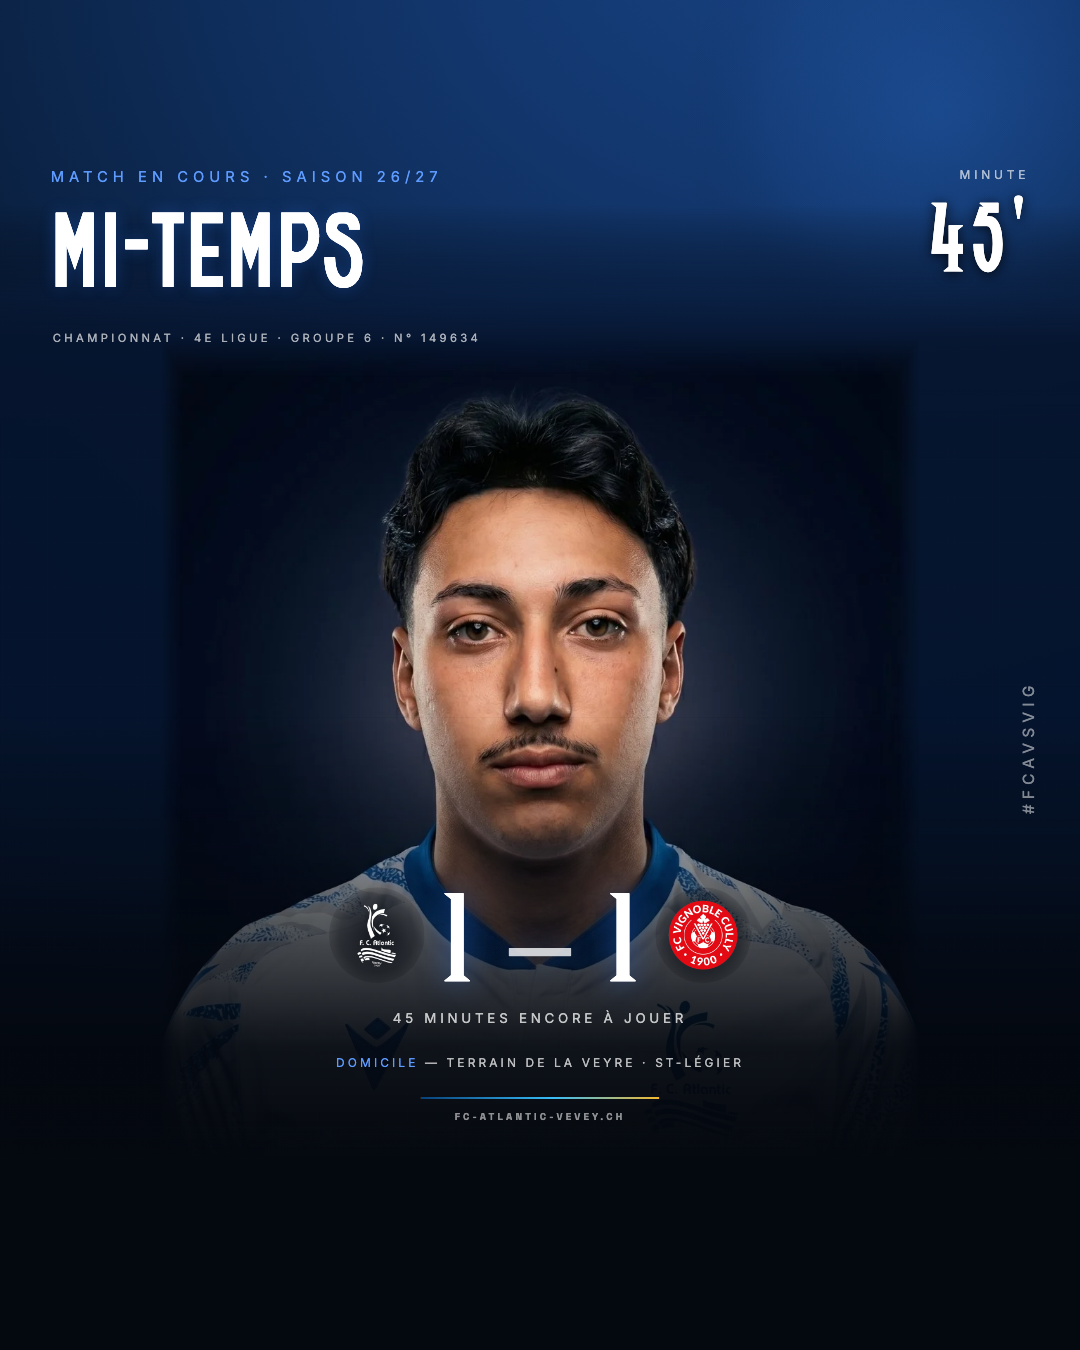
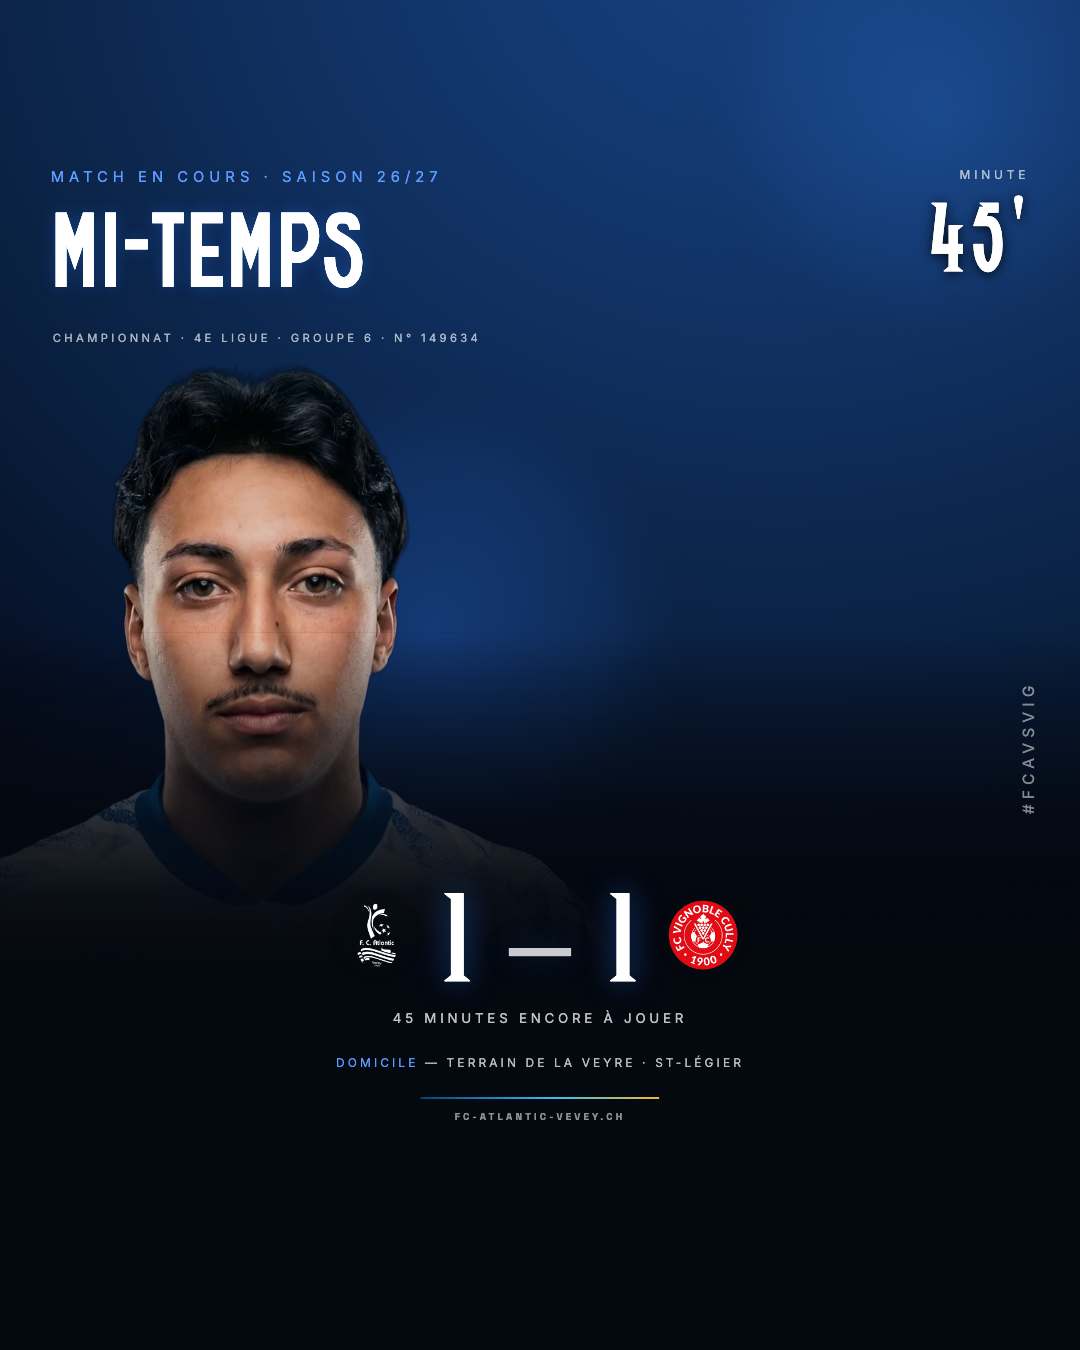
feat(design): joueur détouré, décalé par variante, choisi à la main
Boss 11.08 : « enlève le fond de la photo, ajoute de l'opacité et décale-le
à droite ou à gauche selon les variantes » + choix du joueur de fond.

- Les 28 portraits actifs sont détourés (rembg birefnet-portrait) et servis
  par le site sous /players/cutout/ ; le bundle expose photoCutoutUrl.
- FB.photo pose le buste détouré à 0.93 d'opacité, décalé selon la variante
  (matchday/live/recap à droite, kickoff/mi-temps à gauche, but centré) et
  débordant du cadre — le texte respire du côté opposé.
- Sélecteur « Joueur en fond » dans l'onglet Match : rotation automatique ou
  visage imposé, convoqués en tête. La variante But garde toujours le buteur.
- Le voile mord dès y900 (le buste monte plus haut et le maillot est gris
  clair) : l'info stack passe de 2-3:1 à 13-20:1 mesurés.
- Les découpes des rotations +0/+1/+2 et du buteur sont préchargées, sinon
  une variante retombait en silence sur la photo à fond studio.
- Fallback intact : sans découpe en cache, cadrage centré + nappe.

diff --git a/index.html b/index.html
@@ -163,6 +163,14 @@
   .match-row.on { background:rgba(56,189,248,0.09); box-shadow:inset 2px 0 0 #38BDF8; }
   .match-row.on .mr-opp, .match-row.on .mr-time { color:#38BDF8; }
   .match-row.on .mr-tag { color:#38BDF8; background:rgba(56,189,248,0.12); border-color:rgba(56,189,248,0.4); }
+  .hero-grid { display:grid; grid-template-columns:repeat(auto-fill, minmax(74px, 1fr)); gap:10px; margin-top:10px; }
+  .hero-mini { position:relative; background:rgba(255,255,255,0.04); border:1px solid rgba(255,255,255,0.10); border-radius:12px; padding:6px 4px 7px; text-align:center; cursor:pointer; }
+  .hero-mini.on { border-color:#2E7BFF; background:rgba(46,123,255,0.14); }
+  .hero-img { width:46px; height:46px; margin:0 auto; border-radius:50%; overflow:hidden; background:linear-gradient(135deg,#1a3058,#04080F); }
+  .hero-img img { width:100%; height:100%; object-fit:cover; object-position:center top; display:block; }
+  .hero-auto { width:46px; height:46px; margin:0 auto; border-radius:50%; display:flex; align-items:center; justify-content:center; background:rgba(46,123,255,0.16); border:1px dashed rgba(46,123,255,0.5); font-family:'Inter',sans-serif; font-weight:700; font-size:9px; letter-spacing:0.08em; color:#7FB2FF; }
+  .hero-jer { position:absolute; top:4px; right:6px; font-family:'Oswald',sans-serif; font-weight:700; font-size:10px; color:rgba(255,255,255,0.6); }
+  .hero-name { margin-top:5px; font-family:'Inter',sans-serif; font-weight:600; font-size:9px; letter-spacing:0.04em; text-transform:uppercase; color:rgba(255,255,255,0.75); white-space:nowrap; overflow:hidden; text-overflow:ellipsis; }
   .match-note { margin-top:8px; font-family:'Inter', sans-serif; font-size:10px; color:rgba(255,255,255,0.4); letter-spacing:0.04em; line-height:1.4; }
 
   /* PLAYER GRID */
@@ -664,6 +672,9 @@
     homeAway: 'away',
     // 'championnat' → eyebrow 4E LIGUE · GROUPE 6 + #4eLigue · 'coupe' → BCV CUP + #BCVCup · 'amical' → MATCH AMICAL
     competition: 'coupe',
+    // Joueur en fond choisi à la main ('' = rotation automatique par match).
+    // Ne s'applique JAMAIS au variant But : là, le héros est le buteur.
+    heroPlayerId: '',
     // Convocation coach du match SÉLECTIONNÉ (bundle API, clé = match UUID).
     // [{ jersey, firstName, lastName, position }] — quand présente, le picker
     // de composition ne propose QUE ces joueurs (+ invités). Matching par
@@ -714,6 +725,21 @@
   // restent lisibles que pour l'historique via BY_ID.
   const allPlayers = () => [...ROSTER.filter(p => p._active !== false), ...state.guests];
 
+  /* Candidats au rôle de visage : les convoqués d'abord (ils jouent), sinon
+     tout l'effectif actif avec photo. */
+  function heroCandidates() {
+    const withPhotos = ROSTER.filter(p => p.photoUrl && !p.isGuest && p._active !== false);
+    const conv = withPhotos.filter(isConvoked);
+    return (conv.length ? conv : withPhotos).sort((a, b) => (a.jerseyDisplay || 99) - (b.jerseyDisplay || 99));
+  }
+  window.setHeroPlayer = function(id) {
+    state.heroPlayerId = id || '';
+    const p = id ? BY_ID[id] : null;
+    if (p) ensureCutout(p);
+    toast(p ? `Visage : ${p.lastName.toUpperCase()}` : 'Visage : rotation automatique', 'blue');
+    renderPanel(); refresh();
+  };
+
   /* Joueur héros du matchday — pris au hasard mais STABLE par match (hash du
      matchId) : le poster ne change pas de visage à chaque re-render. Priorité
      aux convoqués (photo dispo), sinon tout le roster. Style Gil Vicente,
@@ -721,6 +747,11 @@
   function heroPlayerFor(matchKey) {
     const withPhotos = ROSTER.filter(p => p.photoUrl && !p.isGuest && p._active !== false);
     if (!withPhotos.length) return null;
+    /* Choix explicite du président : il prime sur la rotation. */
+    if (state.heroPlayerId) {
+      const picked = withPhotos.find(p => p.id === state.heroPlayerId);
+      if (picked) return picked;
+    }
     let pool = withPhotos;
     if (state.convokedPlayers && state.convokedPlayers.length) {
       const conv = withPhotos.filter(p => state.convokedPlayers.some(c =>
@@ -756,6 +787,25 @@
   /* Photos & crests cache (base64 data URLs) */
   const PHOTO_CACHE = {};
   const CREST_CACHE = {};
+  /* Portraits DÉTOURÉS (fond retiré, servis par le site) : c'est eux qu'on
+     pose sur le décor. On garde la photo d'origine en secours. */
+  const CUTOUT_CACHE = {};
+  const _cutoutFetching = new Set();
+  function heroImage(p) {
+    if (!p) return null;
+    if (p.cutoutUrl && CUTOUT_CACHE[p.cutoutUrl]) return { src: CUTOUT_CACHE[p.cutoutUrl], cut: true };
+    const photo = getCachedPhoto(p);
+    return photo ? { src: photo, cut: false } : null;
+  }
+  function ensureCutout(p) {
+    if (!p || !p.cutoutUrl || CUTOUT_CACHE[p.cutoutUrl] || _cutoutFetching.has(p.cutoutUrl)) return;
+    _cutoutFetching.add(p.cutoutUrl);
+    fetchAsDataUrl(p.cutoutUrl).then(d => {
+      _cutoutFetching.delete(p.cutoutUrl);
+      if (d) { CUTOUT_CACHE[p.cutoutUrl] = d; refresh(); }
+    });
+  }
+
   /* Logos blancs des parrains ballon (bundle) — mêmes règles : dataURL only. */
   const SPONSOR_CACHE = {};
   const _sponsorFetching = new Set();
@@ -1366,22 +1416,38 @@
       <div style="position:absolute; inset:0; background:radial-gradient(90% 60% at 30% 110%, rgba(8,65,123,0.25) 0%, rgba(8,65,123,0.08) 50%, transparent 75%);"></div>
       <div style="position:absolute; top:-220px; right:-180px; width:760px; height:760px; background:radial-gradient(circle, rgba(56,140,255,0.2) 0%, rgba(56,140,255,0.06) 45%, transparent 70%);"></div>`;
     },
-    photo(d) {
-      /* La photo occupe TOUTE la largeur du canvas (sinon sa propre boîte
-         sombre se voit en post). Comme le canvas post est plus large, l'image
-         grandit : on remonte son ancrage pour que le VISAGE tombe au même
-         endroit qu'en story — composition identique dans les deux formats. */
-      /* La photo garde EXACTEMENT la même taille et le même ancrage en story
-         et en post (composition identique). Comme le canvas post est plus
-         large que la photo, une nappe bleu nuit la prolonge sur toute la
-         largeur — c'est elle qui absorbe aussi le bord haut de l'image (ces
-         photos portent un fond cuit qui dessinerait sinon une ligne nette). */
-      return `<div style="position:absolute; left:0; right:0; top:290px; bottom:0; background:linear-gradient(180deg, transparent 0px, rgba(6,20,45,0.58) 130px, rgba(6,20,45,0.9) 195px, rgba(6,20,45,0.95) 320px, rgba(6,20,45,0.96) 100%);"></div>
-      <div style="position:absolute; top:430px; left:50%; margin-left:-420px; width:840px; height:840px; background:radial-gradient(circle, rgba(46,123,255,0.3) 0%, rgba(46,123,255,0.1) 42%, transparent 68%);"></div>
-      <div style="position:absolute; left:50%; margin-left:-540px; top:480px; width:1080px; height:1440px; background-image:url('${d}'); background-size:contain; background-position:center top; background-repeat:no-repeat;"></div>`;
+    /* Montage du joueur (Boss 11.08) : buste DÉTOURÉ, légèrement translucide,
+       décalé à gauche ou à droite selon la variante — le texte respire du
+       côté opposé. Si seule la photo d'origine est en cache (fond studio
+       cuit dans l'image), on retombe sur le cadrage centré + la nappe qui
+       masque sa boîte. */
+    photo(img, side = 'center') {
+      if (!img) return '';
+      const haloX = side === 'right' ? '60%' : side === 'left' ? '40%' : '50%';
+      const halo = `<div style="position:absolute; top:${side === 'center' ? 430 : 480}px; left:${haloX}; margin-left:-420px; width:840px; height:840px; background:radial-gradient(circle, rgba(46,123,255,0.28) 0%, rgba(46,123,255,0.1) 42%, transparent 68%);"></div>`;
+      if (!img.cut) {
+        return `<div style="position:absolute; left:0; right:0; top:290px; bottom:0; background:linear-gradient(180deg, transparent 0px, rgba(6,20,45,0.58) 130px, rgba(6,20,45,0.9) 195px, rgba(6,20,45,0.95) 320px, rgba(6,20,45,0.96) 100%);"></div>
+      ${halo}
+      <div style="position:absolute; left:50%; margin-left:-540px; top:480px; width:1080px; height:1440px; background-image:url('${img.src}'); background-size:contain; background-position:center top; background-repeat:no-repeat;"></div>`;
+      }
+      const w = 1010, h = 1330, top = 512;
+      const left = side === 'right' ? FB.vw - w + 132
+                 : side === 'left'  ? -132
+                 : Math.round((FB.vw - w) / 2);
+      return `${halo}
+      <div style="position:absolute; left:${left}px; top:${top}px; width:${w}px; height:${h}px; opacity:0.93; background-image:url('${img.src}'); background-size:contain; background-position:center top; background-repeat:no-repeat;"></div>`;
     },
-    scrim(topY = 1020) {
-      return `<div style="position:absolute; left:0; right:0; top:${topY}px; bottom:0; background:linear-gradient(180deg, transparent 0%, rgba(4,8,15,0.35) 20%, rgba(4,8,15,0.72) 36%, rgba(4,8,15,0.95) 52%, rgba(4,8,15,1) 70%);"></div>`;
+    /* Côté du buste par variante : deux stories publiées à la suite ne
+       présentent jamais la même image au même endroit. */
+    side(v) {
+      return { matchday: 'right', kickoff: 'left', 'live-score': 'right',
+               halftime: 'left', recap: 'right', goal: 'center' }[v] || 'center';
+    },
+    /* Le buste détouré monte plus haut dans le cadre et le maillot est GRIS
+       CLAIR : sans un voile qui mord tôt, l'info stack tombe à 2-3:1 (mesuré).
+       Opaque dès y1290, là où commence la première rangée. */
+    scrim(topY = 900) {
+      return `<div style="position:absolute; left:0; right:0; top:${topY}px; bottom:0; background:linear-gradient(180deg, transparent 0%, rgba(4,8,15,0.45) 14%, rgba(4,8,15,0.82) 26%, rgba(4,8,15,0.96) 36%, rgba(4,8,15,1) 46%);"></div>`;
     },
     kicker(txt, y = 238) {
       return `<div style="position:absolute; left:72px; top:${y}px; font-family:'Inter', sans-serif; font-weight:700; font-size:21px; letter-spacing:0.34em; text-transform:uppercase; color:#5E9BFF;">${txt}</div>`;
@@ -1536,11 +1602,11 @@
        Rendu photo UNIQUEMENT depuis le cache dataURL (zéro taint export).
        Sans photo cachée (offline) → layout carte historique ci-dessous. */
     const heroP = heroPlayerFor(state.matchId);
-    const heroPhoto = heroP && getCachedPhoto(heroP);
-    if (heroPhoto) {
+    const heroImg = heroImage(heroP);
+    if (heroImg) {
       const html = `
         ${FB.bg()}
-        ${FB.photo(heroPhoto)}
+        ${FB.photo(heroImg, FB.side('matchday'))}
         ${FB.scrim()}
         ${FB.kicker('Matchday · Saison 26/27')}
         ${FB.titre(state.kickoff.dayName, 168)}
@@ -1580,9 +1646,7 @@
           ${leftBlock}
           <div style="display:flex; flex-direction:column; align-items:center; gap:${pf(24,22)}px;">
             <div style="width:1px; height:${vsRule}px; background:linear-gradient(180deg, transparent, ${acc}99, transparent);"></div>
-            ${heroPhoto
-              ? `<div style="font-family:'Portugal2025', 'Oswald', sans-serif; font-weight:400; font-size:${pf(88,94)}px; line-height:1; letter-spacing:0.06em; color:rgba(255,255,255,0.92); text-shadow:0 2px 22px rgba(4,8,15,0.95), 0 0 56px rgba(4,8,15,0.8);">VS</div>`
-              : `<div style="font-family:'Portugal2025', 'Oswald', sans-serif; font-weight:400; font-size:${pf(116,124)}px; line-height:1; letter-spacing:0.06em; ${ghostVS}">VS</div>`}
+            <div style="font-family:'Portugal2025', 'Oswald', sans-serif; font-weight:400; font-size:${pf(116,124)}px; line-height:1; letter-spacing:0.06em; ${ghostVS}">VS</div>
             <div style="width:1px; height:${vsRule}px; background:linear-gradient(180deg, transparent, ${acc}99, transparent);"></div>
           </div>
           ${rightBlock}
@@ -1613,11 +1677,11 @@
     heroPlayerFor._offset = 1;
     const heroK = heroPlayerFor(state.matchId);
     heroPlayerFor._offset = 0;
-    const heroKPhoto = heroK && getCachedPhoto(heroK);
-    if (heroKPhoto) {
+    const heroKImg = heroImage(heroK);
+    if (heroKImg) {
       const html = `
         ${FB.bg()}
-        ${FB.photo(heroKPhoto)}
+        ${FB.photo(heroKImg, FB.side('kickoff'))}
         ${FB.scrim()}
         ${FB.kicker('Imminent · Saison 26/27')}
         ${FB.titre("COUP D'ENVOI", 126)}
@@ -1685,11 +1749,11 @@
     const stateMsg = state.score.home > state.score.away ? 'On mène' : (state.score.home < state.score.away ? 'On est mené' : 'Tout reste à jouer');
     /* Full-bleed système (DESIGN-SYSTEM-2627 §5) */
     const heroL = heroPlayerFor(state.matchId);
-    const heroLPhoto = heroL && getCachedPhoto(heroL);
-    if (heroLPhoto) {
+    const heroLImg = heroImage(heroL);
+    if (heroLImg) {
       const html = `
         ${FB.bg()}
-        ${FB.photo(heroLPhoto)}
+        ${FB.photo(heroLImg, FB.side('live-score'))}
         ${FB.scrim()}
         ${FB.kicker('<span style="display:inline-block; width:14px; height:14px; border-radius:50%; background:#EF4444; margin-right:14px;"></span>Match en cours · Saison 26/27')}
         ${FB.titre('EN DIRECT', 140)}
@@ -1756,13 +1820,13 @@
         ${venueFooter()}
       `;
     }
-    const photo = getCachedPhoto(sc);
+    const photo = heroImage(sc);
     /* Full-bleed Gil Vicente (Boss 11.08) : plus de carte panini à bordure —
        le buteur PLEIN CADRE, « BUT ! » et le score posés par-dessus. */
     if (photo) {
       const html = `
         ${FB.bg()}
-        ${FB.photo(photo)}
+        ${FB.photo(photo, 'center')}
         ${FB.scrim(1000)}
         ${FB.kicker('But · Saison 26/27')}
         ${FB.titre('BUT<span style="padding-left:26px;">!</span>', 156, 282, GOLD)}
@@ -1774,6 +1838,7 @@
         ${FB.bottom(false)}`;
       return { fullBleed: true, html };
     }
+    const paniniPhoto = photo && photo.src;
     const lastNameLen = sc.lastName.length;
     const lastNameFS = state.format === 'post'
       ? (lastNameLen > 14 ? 48 : (lastNameLen > 10 ? 54 : 60))
@@ -1798,7 +1863,7 @@
           </div>
           <div style="position:absolute; inset:0; display:flex; align-items:flex-end; justify-content:center; background:radial-gradient(ellipse at 50% 60%, rgba(245,184,46,0.15), transparent 70%);">
             <!-- background-image (pas <img>+object-fit) : html2canvas ignore object-fit → cf. photoNode() -->
-            ${photo ? `<div style="width:100%; height:95%; background-image:url('${photo}'); background-size:cover; background-position:center 18%; background-repeat:no-repeat;"></div>` : `<div style="width:100%; height:100%; display:flex; align-items:center; justify-content:center; font-family:'Oswald', sans-serif; font-weight:700; font-size:${pf(180,170)}px; color:rgba(255,255,255,0.3);">${playerInitials(sc)}</div>`}
+            ${paniniPhoto ? `<div style="width:100%; height:95%; background-image:url('${paniniPhoto}'); background-size:cover; background-position:center 18%; background-repeat:no-repeat;"></div>` : `<div style="width:100%; height:100%; display:flex; align-items:center; justify-content:center; font-family:'Oswald', sans-serif; font-weight:700; font-size:${pf(180,170)}px; color:rgba(255,255,255,0.3);">${playerInitials(sc)}</div>`}
           </div>
           <div style="position:absolute; bottom:0; left:0; right:0; background:linear-gradient(180deg, transparent, rgba(4,8,15,0.92) 30%, #04080F); padding:${pf(120,120)}px ${pf(24,24)}px ${pf(20,22)}px; z-index:2;">
             <div style="font-family:'Inter', sans-serif; font-weight:500; font-size:${pf(24,26)}px; color:${GOLD}; letter-spacing:0.08em; text-transform:uppercase;">${sc.firstName}</div>
@@ -1818,11 +1883,11 @@
     heroPlayerFor._offset = 2;
     const heroH = heroPlayerFor(state.matchId);
     heroPlayerFor._offset = 0;
-    const heroHPhoto = heroH && getCachedPhoto(heroH);
-    if (heroHPhoto) {
+    const heroHImg = heroImage(heroH);
+    if (heroHImg) {
       const html = `
         ${FB.bg()}
-        ${FB.photo(heroHPhoto)}
+        ${FB.photo(heroHImg, FB.side('halftime'))}
         ${FB.scrim()}
         ${FB.kicker('Match en cours · Saison 26/27')}
         ${FB.titre('MI-TEMPS', 150)}
@@ -1868,8 +1933,8 @@
     /* Full-bleed système : héros = dernier buteur FCA (photo), sinon rotation */
     const lastScorer = [...fcaGoals].reverse().map(g => BY_ID[g.playerId]).find(p => p && getCachedPhoto(p));
     const heroR = lastScorer || heroPlayerFor(state.matchId);
-    const heroRPhoto = heroR && getCachedPhoto(heroR);
-    if (heroRPhoto) {
+    const heroRImg = heroImage(heroR);
+    if (heroRImg) {
       const resultWord = win ? 'VICTOIRE' : (draw ? 'MATCH NUL' : 'DÉFAITE');
       const resultCol = win ? '#F5B82E' : (draw ? '#FFFFFF' : '#F87171');
       const shown = fcaGoals.slice(0, (state.matchBallSponsors || []).length ? 2 : 3);
@@ -1881,7 +1946,7 @@
       }).join('') + (more > 0 ? `<div style="margin-top:8px; font-family:'Inter', sans-serif; font-weight:600; font-size:17px; letter-spacing:0.2em; color:rgba(255,255,255,0.5);">+ ${more} autre${more > 1 ? 's' : ''}</div>` : '');
       const html = `
         ${FB.bg()}
-        ${FB.photo(heroRPhoto)}
+        ${FB.photo(heroRImg, FB.side('recap'))}
         ${FB.scrim()}
         ${FB.kicker('Résultat final · Saison 26/27')}
         ${FB.titre(resultWord, 150, 282, resultCol)}
@@ -2269,6 +2334,24 @@
         <input type="text" id="time-input" value="${state.kickoff.time}" placeholder="15:00">
       </div>
       <div class="match-note">Tape un match → tout est configuré. Seule l'heure reste éditable.</div>
+
+      <!-- JOUEUR EN FOND — visage des visuels (sauf « But », où c'est le buteur) -->
+      <div class="panel-label" style="margin-top:18px;">Joueur en fond
+        <span class="b blue">${state.heroPlayerId ? 'choisi' : 'auto'}</span>
+      </div>
+      <div class="hero-grid">
+        <div class="hero-mini ${state.heroPlayerId ? '' : 'on'}" onclick="setHeroPlayer('')">
+          <div class="hero-auto">AUTO</div>
+          <div class="hero-name">Rotation</div>
+        </div>
+        ${heroCandidates().map(p => `
+          <div class="hero-mini ${state.heroPlayerId === p.id ? 'on' : ''}" onclick="setHeroPlayer('${p.id}')">
+            <div class="hero-img">${p.photoUrl ? `<img src="${p.photoUrl}" loading="lazy">` : ''}</div>
+            <div class="hero-jer">${p.jerseyDisplay}</div>
+            <div class="hero-name">${p.lastName}</div>
+          </div>`).join('')}
+      </div>
+      <div class="match-note">Le visage des visuels. « But » utilise toujours le buteur.</div>
 
       <!-- BALLONS DE MATCH — sponsors qui apparaîtront sur matchday / kickoff / recap -->
       <div class="panel-label" style="margin-top:18px;">Ballons de match <span class="b">${state.matchBallSponsors.length}</span></div>
@@ -2929,7 +3012,7 @@
   const LIVE_KEY_PREFIX = 'fca-mc:v1:live:';
   const LAST_KEY = 'fca-mc:v1:last';
   const LIVE_TTL_MS = 12 * 3600 * 1000;
-  const PERSIST_FIELDS = ['variant','format','homeAway','competition','convokedPlayers',
+  const PERSIST_FIELDS = ['variant','format','homeAway','competition','convokedPlayers','heroPlayerId',
     'competitionSub','matchId','_userPickedMatch','opponentSlug','matchNumber','venue','venueCity',
     'kickoff','matchBallSponsors','score','minute','scorerId','scorerSide','formation','captainId',
     'lineupStarters','lineupBench','guests','goals','customMessage','captionOverride'];
@@ -2979,7 +3062,25 @@
     state.lineupBench = [];
   }
 
-  function refresh() { ensureSponsorLogos(); updatePreview(); updateAppbar(); persistLive(); }
+  function refresh() {
+    ensureSponsorLogos();
+    /* Le buste détouré du héros courant (et du buteur) est chargé à la
+       demande : c'est lui qui porte tout le montage. */
+    /* Les variantes décalent la rotation (kickoff +1, mi-temps +2) : sans
+       précharger les trois, elles retombent en silence sur la photo à fond
+       studio et perdent leur décalage. */
+    [0, 1, 2].forEach(off => {
+      heroPlayerFor._offset = off;
+      ensureCutout(heroPlayerFor(state.matchId));
+      heroPlayerFor._offset = 0;
+    });
+    if (state.scorerId) ensureCutout(BY_ID[state.scorerId]);
+    /* dernier buteur FCA = héros du recap : sans lui, le recap retombe en
+       silence sur la photo à fond studio et perd son décalage */
+    const lastHome = [...(state.goals || [])].reverse().find(g => g.side === 'home' && g.playerId);
+    if (lastHome) ensureCutout(BY_ID[lastHome.playerId]);
+    updatePreview(); updateAppbar(); persistLive();
+  }
   function renderAll() { renderSectionTabs(); renderPanel(); refresh(); }
 
   function toast(msg, kind='') {
@@ -3304,6 +3405,7 @@
         if (r.firstName) hit.firstName = r.firstName;
         if (r.lastName) hit.lastName = r.lastName;
         if (r.photoUrl) hit.photoUrl = r.photoUrl;
+        if (r.photoCutoutUrl) hit.cutoutUrl = r.photoCutoutUrl;
         if (pos) hit.position = pos;
         hit._active = true;
         touched.add(hit.id);
@@ -3311,7 +3413,8 @@
         const id = 'api-' + r.jersey + '-' + normName(r.lastName).slice(0, 8);
         if (!ROSTER.some(p => p.id === id)) {
           const entry = { id, jerseyDisplay: r.jersey, firstName: r.firstName || '',
-            lastName: r.lastName || '', position: pos || 'MIL', photoUrl: r.photoUrl || '', _active: true };
+            lastName: r.lastName || '', position: pos || 'MIL', photoUrl: r.photoUrl || '',
+            cutoutUrl: r.photoCutoutUrl || '', _active: true };
           ROSTER.push(entry);
           BY_ID[id] = entry;
         }

diff --git a/DESIGN-SYSTEM-2627.md b/DESIGN-SYSTEM-2627.md
@@ -93,6 +93,29 @@ on utilise `FB.royal` = `#5E9BFF`. Jamais de glow de la même teinte que le text
 **Réserve de l'or** : BUT, minute du but, parrains ballon, étoiles TBD, VICTOIRE,
 brassard capitaine. La minute d'un match en cours (live, mi-temps) est BLANCHE.
 
+## 5ter. Montage du joueur (Boss 11.08)
+
+Les portraits de la vitrine portent un fond studio **cuit dans l'image**. Une
+version **détourée** vit désormais à côté sur le site :
+`/players/cutout/<slug>.webp` (générée par `rembg` modèle `birefnet-portrait`,
+exposée par le bundle en `photoCutoutUrl`).
+
+- Le buste détouré est posé à **0.93 d'opacité**, largeur 1010, ancré y512.
+- **Décalage par variante** (`FB.side`) — deux stories publiées à la suite ne
+  montrent jamais l'image au même endroit :
+  matchday **droite** · kickoff **gauche** · live **droite** ·
+  mi-temps **gauche** · recap **droite** · but **centré** (c'est le buteur).
+- **Choix du visage** : le président peut fixer le joueur de fond
+  (`state.heroPlayerId`, onglet Match). Vide = rotation automatique sans
+  répétition. La variante **But** ignore ce choix — son héros est le buteur.
+- Précharger les découpes des rotations **+0, +1 et +2** ainsi que celle du
+  buteur : sinon une variante retombe en silence sur la photo à fond studio
+  et perd son décalage.
+- Sans découpe en cache (offline) → cadrage centré + nappe qui masque la boîte.
+
+**Régénérer les découpes** après une nouvelle photo :
+`python3 scripts/cutouts.py` côté site, puis `vercel --prod`.
+
 ## 6. Lois non négociables
 
 - **Zéro chrome** : pas de cadre, pas de pastille décorative, pas de tuile bordée.
